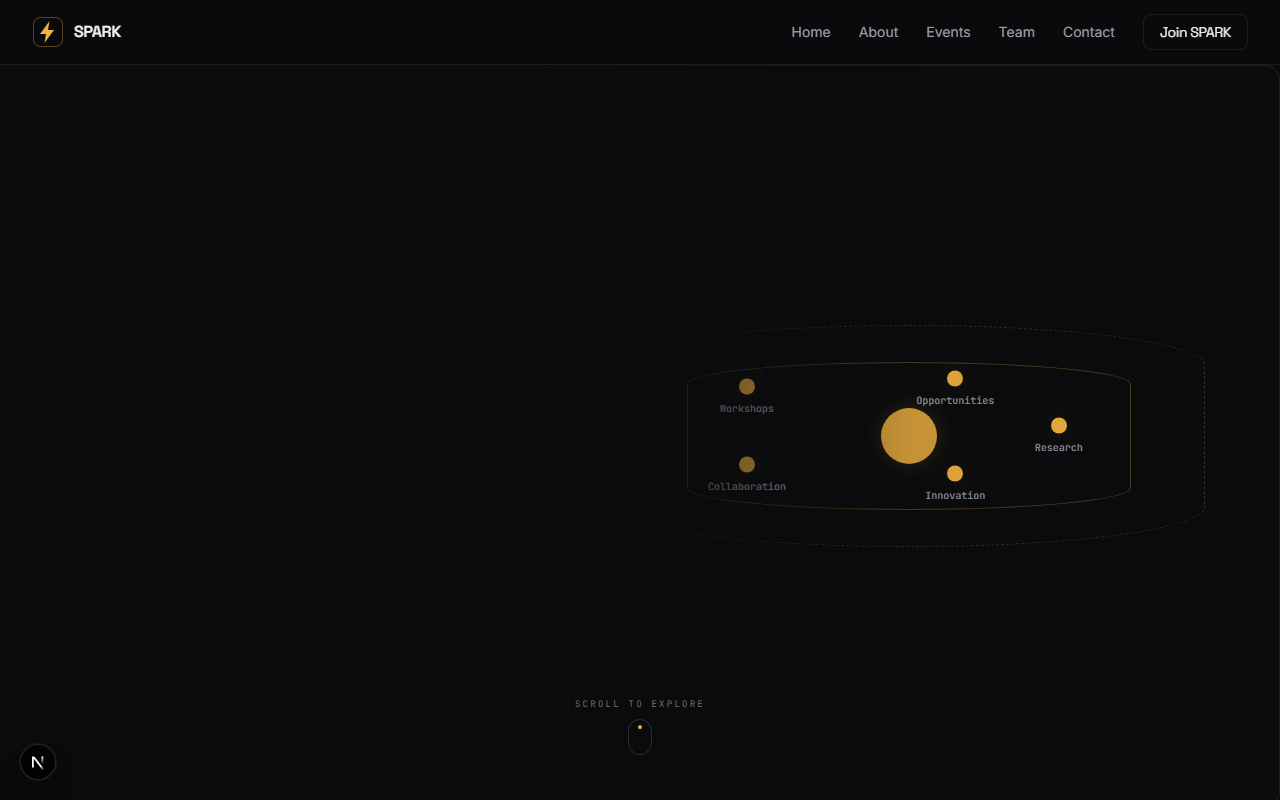
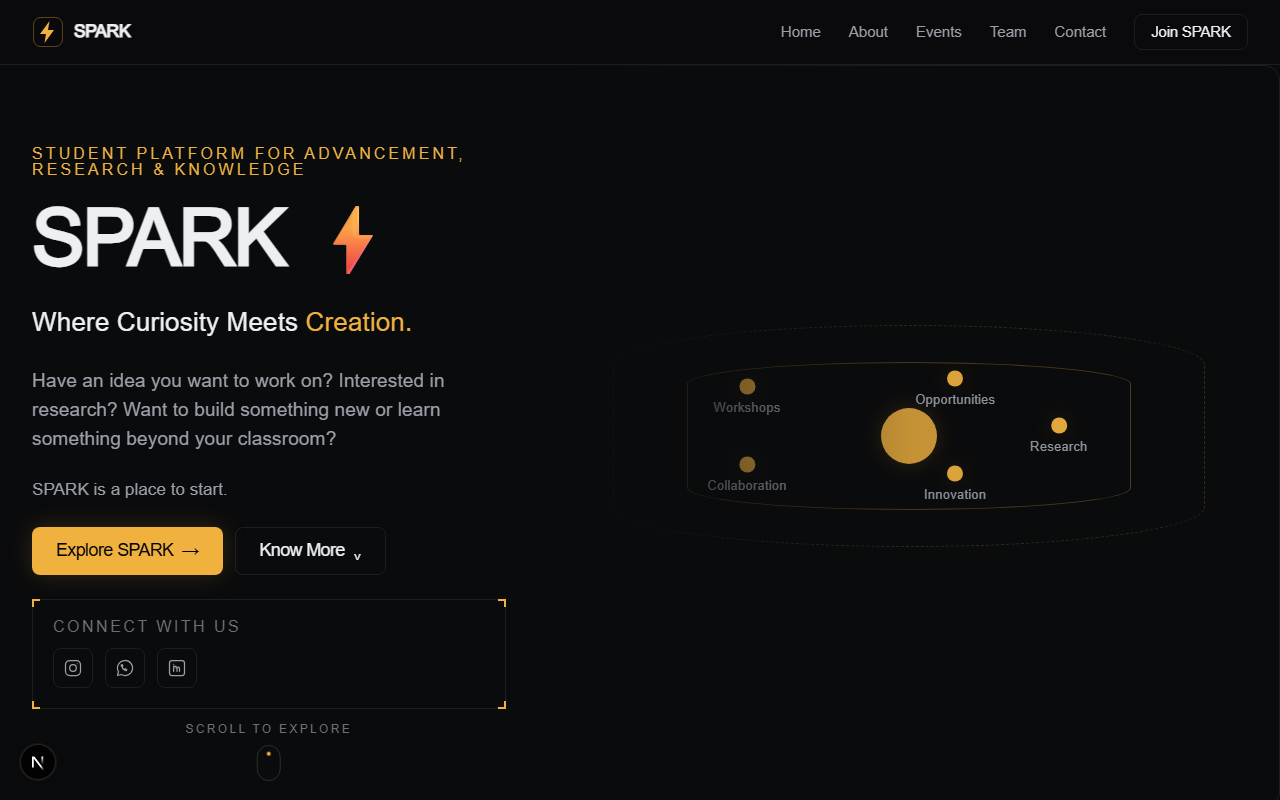
fix: correct SPARK home hero layout

diff --git a/src/app/page.tsx b/src/app/page.tsx
@@ -70,12 +70,12 @@ export default function Home() {
       {/* ── HERO ── */}
       <section
         id="hero"
-        className="relative min-h-[calc(100svh-4rem)] flex items-center overflow-hidden border-b border-line"
+        className="relative min-h-[calc(100svh-4rem)] grid grid-cols-[1fr_58%] lg:grid-cols-[42%_58%] overflow-hidden border-b border-line"
       >
         <SectionIndicator number="01" />
 
-        {/* 3D visual — stacked on mobile, absolute right on desktop */}
-        <div className="relative w-full h-[420px] sm:h-[480px] lg:absolute lg:inset-y-0 lg:right-0 lg:h-auto lg:w-[58%] lg:top-0 lg:z-[0]">
+        {/* 3D visual — right column */}
+        <div className="relative h-full w-full lg:col-start-2 lg:row-start-1 z-3d">
           <HeroMount className="h-full w-full" />
           {/* Fade left edge on desktop */}
           <div aria-hidden className="pointer-events-none absolute inset-0 hidden lg:block bg-gradient-to-r from-base via-base/10 to-transparent" />
@@ -83,56 +83,42 @@ export default function Home() {
           <div aria-hidden className="pointer-events-none absolute inset-x-0 bottom-0 h-24 bg-gradient-to-t from-base to-transparent lg:hidden" />
         </div>
 
-        {/* Content */}
-        <Container className="relative z-content pt-12 pb-16 lg:pt-20 lg:pb-24">
+        {/* Content — left column */}
+        <Container className="relative z-content pt-12 pb-16 lg:pt-20 lg:pb-24 lg:col-start-1 lg:row-start-1 self-center">
           <div className="max-w-2xl flex flex-col gap-6">
-            <ScrollReveal delay={0}>
-              <p className="font-mono text-xs uppercase tracking-[0.25em] text-accent">
-                STUDENT PLATFORM FOR ADVANCEMENT, RESEARCH & KNOWLEDGE
-              </p>
-            </ScrollReveal>
+            <p className="font-mono text-xs uppercase tracking-[0.25em] text-accent">
+              STUDENT PLATFORM FOR ADVANCEMENT, RESEARCH & KNOWLEDGE
+            </p>
 
-            <ScrollReveal delay={0.1}>
-              <h1 className="font-display text-4xl sm:text-5xl lg:text-6xl xl:text-7xl font-semibold tracking-tight text-ink leading-[1.05]">
-                {site.name} <span className="text-accent">⚡</span>
-              </h1>
-            </ScrollReveal>
+            <h1 className="font-display text-4xl sm:text-5xl lg:text-6xl xl:text-7xl font-semibold tracking-tight text-ink leading-[1.05]">
+              {site.name} <span className="text-accent">⚡</span>
+            </h1>
 
-            <ScrollReveal delay={0.2}>
-              <p className="font-display text-lg sm:text-xl lg:text-2xl text-ink leading-relaxed">
-                Where Curiosity Meets <span className="text-accent">Creation.</span>
-              </p>
-            </ScrollReveal>
+            <p className="font-display text-lg sm:text-xl lg:text-2xl text-ink leading-relaxed">
+              Where Curiosity Meets <span className="text-accent">Creation.</span>
+            </p>
 
-            <ScrollReveal delay={0.3}>
-              <p className="text-base sm:text-lg max-w-xl leading-relaxed text-ink-secondary">
-                Have an idea you want to work on? Interested in research? Want to build
-                something new or learn something beyond your classroom?
-              </p>
-            </ScrollReveal>
+            <p className="text-base sm:text-lg max-w-xl leading-relaxed text-ink-secondary">
+              Have an idea you want to work on? Interested in research? Want to build
+              something new or learn something beyond your classroom?
+            </p>
 
-            <ScrollReveal delay={0.35}>
-              <p className="text-base max-w-xl leading-relaxed text-ink-secondary">
-                SPARK is a place to start.
-              </p>
-            </ScrollReveal>
+            <p className="text-base max-w-xl leading-relaxed text-ink-secondary">
+              SPARK is a place to start.
+            </p>
 
-            <ScrollReveal delay={0.4}>
-              <div className="flex flex-col sm:flex-row gap-3">
-                <Button href="/about" variant="primary" size="lg" className="w-full sm:w-auto">
-                  Explore SPARK
-                  <span aria-hidden>→</span>
-                </Button>
-                <Button href="#intro" variant="outline" size="lg" className="w-full sm:w-auto">
-                  Know More
-                  <span aria-hidden>⌄</span>
-                </Button>
-              </div>
-            </ScrollReveal>
+            <div className="flex flex-col sm:flex-row gap-3">
+              <Button href="/about" variant="primary" size="lg" className="w-full sm:w-auto">
+                Explore SPARK
+                <span aria-hidden>→</span>
+              </Button>
+              <Button href="#intro" variant="outline" size="lg" className="w-full sm:w-auto">
+                Know More
+                <span aria-hidden>⌄</span>
+              </Button>
+            </div>
 
-            <ScrollReveal delay={0.5}>
-              <ConnectPanel />
-            </ScrollReveal>
+            <ConnectPanel />
           </div>
 
           <ScrollIndicator />

diff --git a/src/styles/tokens.css b/src/styles/tokens.css
@@ -103,4 +103,12 @@
   --shadow-card: var(--spark-shadow-card);
   --shadow-glow: var(--spark-glow-accent);
   --shadow-glow-strong: var(--spark-glow-accent-strong);
+
+  /* Z-index */
+  --z-3d: var(--spark-z-3d);
+  --z-content: var(--spark-z-content);
+  --z-nav: var(--spark-z-nav);
+  --z-overlay: var(--spark-z-overlay);
+  --z-modal: var(--spark-z-modal);
+  --z-toast: var(--spark-z-toast);
 }
